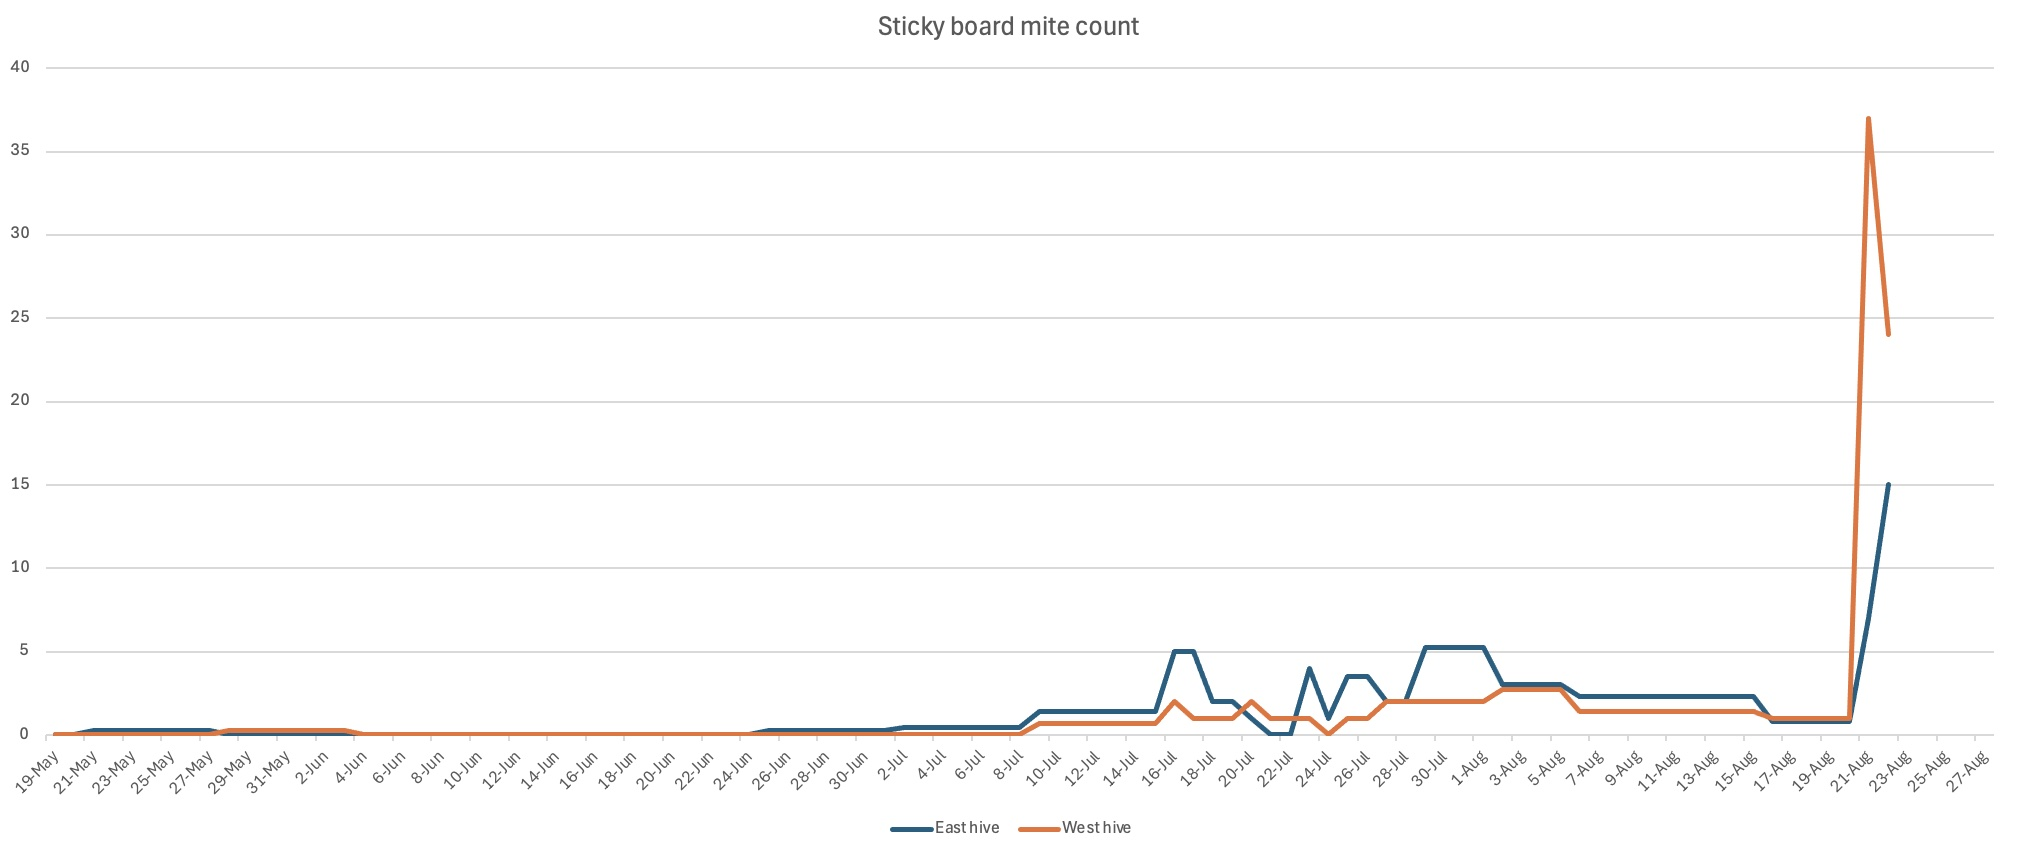
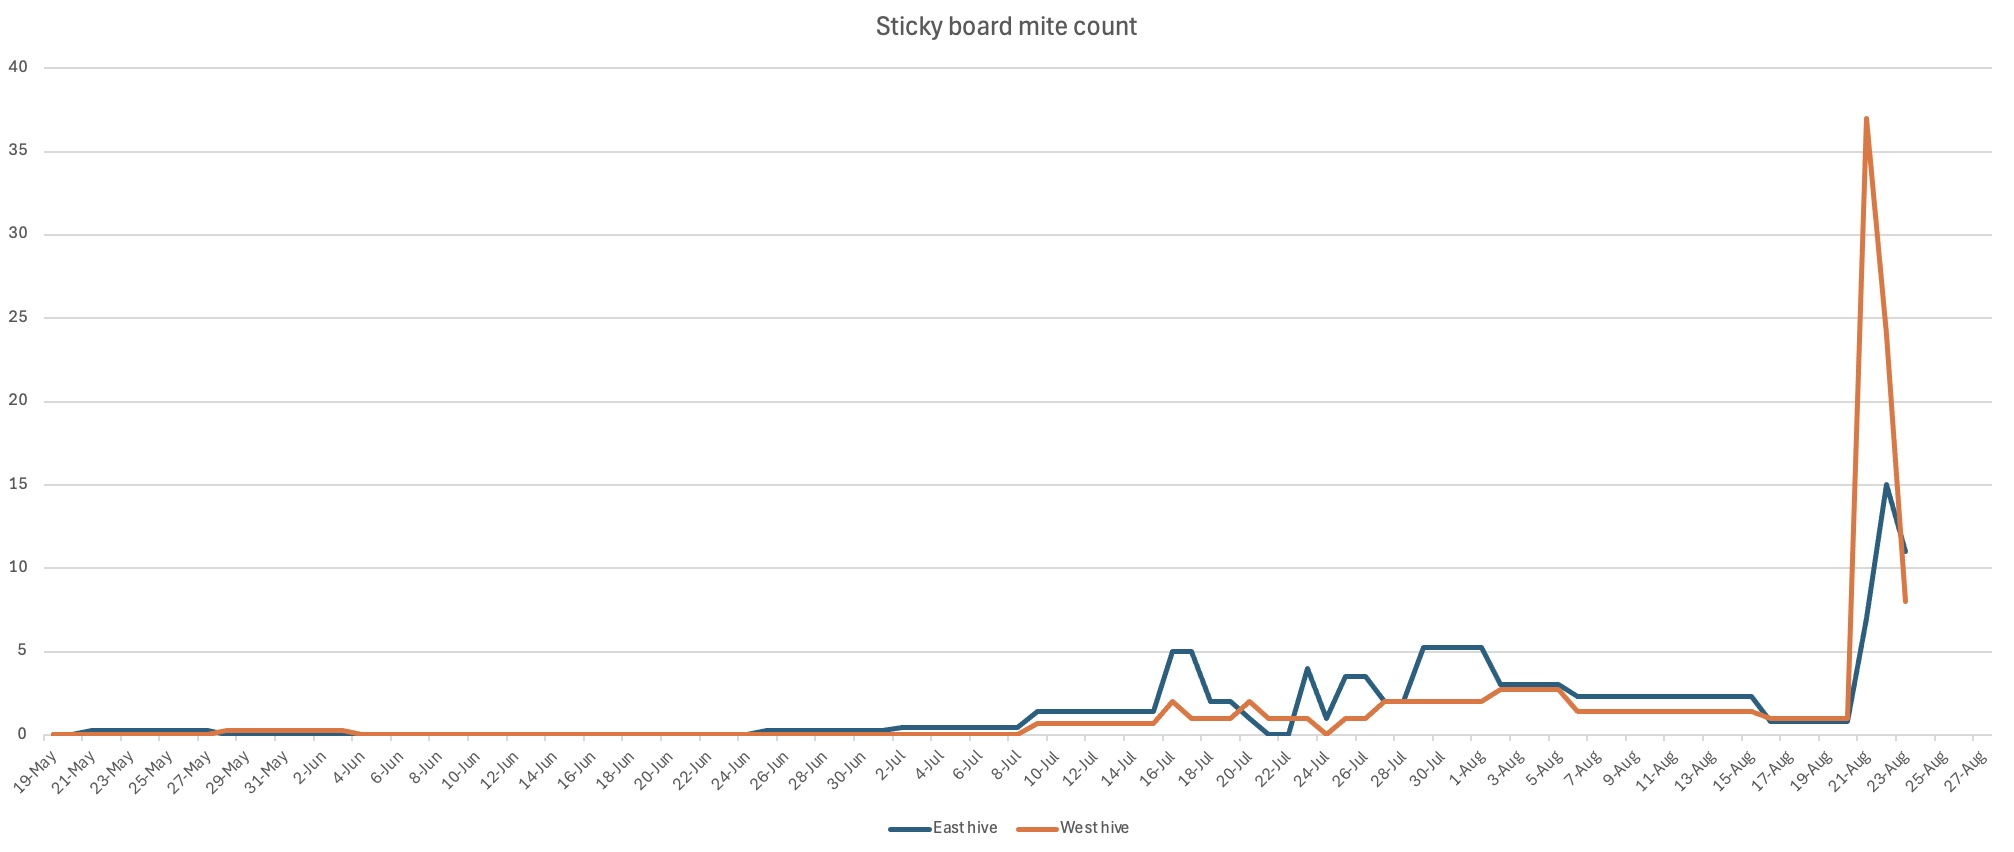
added posts

diff --git a/_posts/2024-08-22-inspection.md b/_posts/2024-08-22-inspection.md
@@ -1,0 +1,29 @@
+---
+title: "Inspection"
+date: 2024-08-22
+---
+
+
+- Time: ~15.30
+- Temp: ~65F, cloudy
+
+### East nuc
+
+- Temperament: calm, no smoke needed
+- Eggs, larvae, and capped brood present.
+- Open nectar, full frames of capped honey, and some pollen
+- Honey super not built out much.
+- Drone frame partially built out
+- Removed frame of capped brood to put in second hive
+
+### West nuc
+
+This colony still seems pretty weak. They just haven't built up like the other colony.
+
+- Temperament: calm, no smoke needed
+- Eggs, larvae, and capped brood present
+- Open nectar, capped honey and pollen present
+- Removed third brood box
+- Added frame of capped brood from other hive
+- Added pollen patty to top of second brood box
+- Added top feeder with 1:1. I will probably remove this on my mentor's advice now... I'm not exactly sure what to do since I've been given conflicting advice.

diff --git a/_posts/2024-08-23-mite-check.md b/_posts/2024-08-23-mite-check.md
@@ -1,0 +1,20 @@
+---
+title: "Mite Check"
+date: 2024-08-23
+---
+
+- Time: ~08.00
+- Temp: ~56F, cloudy
+
+Third day after OAV treatment.
+
+### East nuc
+
+- Bottom board had 11 mites
+- Wiped and re-oiled the bottom board.
+
+### West nuc
+
+- Bottom board had 8 mites
+- Wiped and re-oiled the bottom board.
+
